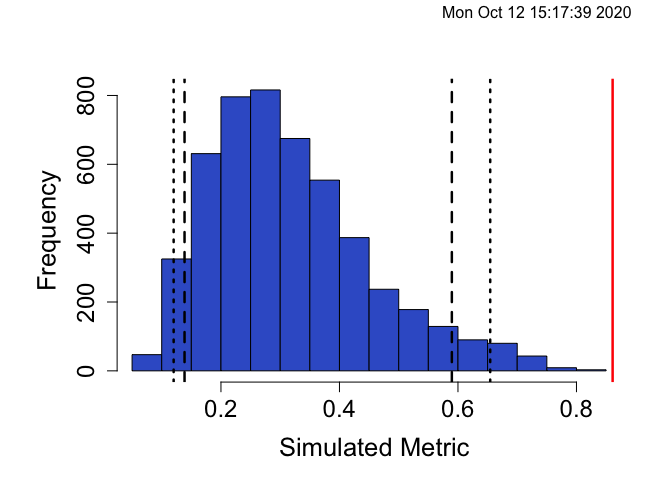
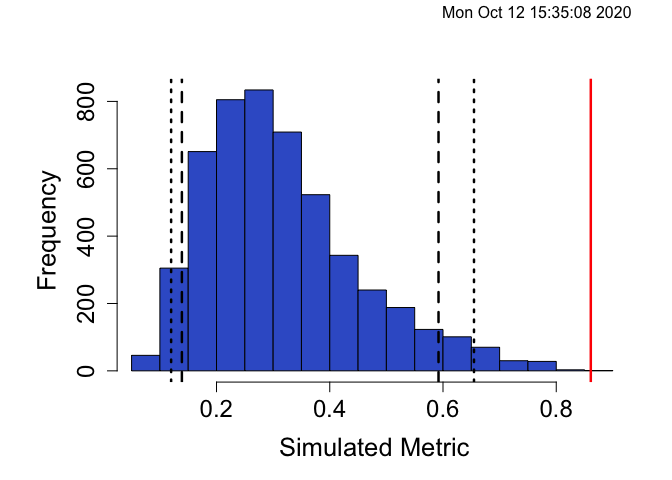
Fixed typos

diff --git a/Piankas_niche_overlap.md b/Piankas_niche_overlap.md
@@ -21,7 +21,9 @@ df <- read.csv("/Users/gemmaclucas/Dropbox/Diets_from_poop/2019_terns_puffins_fe
          Mummichog = Mummichig)
 ```
 
-### Create matrix to calculate niche overlap for COTEs
+## Niche overlap between Common Tern adults and chicks
+
+### Create matrix
 
 The function needs species (or in this case age groups) as rows and the
 prey items in columns. It will determine the proportion for each prey
@@ -77,25 +79,25 @@ COTE_pianka <- COTE %>% niche_null_model(nReps=5000, algo = "ra3", metric = "pia
 summary(COTE_pianka)
 ```
 
-    ## Time Stamp:  Mon Oct 12 15:17:39 2020 
+    ## Time Stamp:  Mon Oct 12 15:35:08 2020 
     ## Reproducible:  FALSE 
     ## Number of Replications:  5000 
-    ## Elapsed Time:  0.88 secs 
+    ## Elapsed Time:  0.82 secs 
     ## Metric:  pianka 
     ## Algorithm:  ra3 
     ## Observed Index:  0.86102 
-    ## Mean Of Simulated Index:  0.31603 
-    ## Variance Of Simulated Index:  0.018255 
-    ## Lower 95% (1-tail):  0.13853 
-    ## Upper 95% (1-tail):  0.58967 
-    ## Lower 95% (2-tail):  0.12016 
-    ## Upper 95% (2-tail):  0.65443 
-    ## Lower-tail P >  0.9998 
-    ## Upper-tail P <  2e-04 
-    ## Observed metric > 5000 simulated metrics 
-    ## Observed metric < 0 simulated metrics 
+    ## Mean Of Simulated Index:  0.31594 
+    ## Variance Of Simulated Index:  0.018551 
+    ## Lower 95% (1-tail):  0.13884 
+    ## Upper 95% (1-tail):  0.59208 
+    ## Lower 95% (2-tail):  0.11985 
+    ## Upper 95% (2-tail):  0.65474 
+    ## Lower-tail P =  0.9998 
+    ## Upper-tail P =  2e-04 
+    ## Observed metric > 4999 simulated metrics 
+    ## Observed metric < 1 simulated metrics 
     ## Observed metric = 0 simulated metrics 
-    ## Standardized Effect Size (SES):  4.0337
+    ## Standardized Effect Size (SES):  4.002
 
 Plot a histogram to see where the observed metric falls against the
 simulated
@@ -111,7 +113,7 @@ This shows that there is much higher overlap than expected by chance.
 The observed overlap of 0.8610201 is well outside of the 95% confidence
 interval, which is denoted by the short dashed lines.
 
-### Overlap between COTE and ROST chick diets.
+## Niche overlap between Common and Roseate tern chicks
 
 Create a table with the FOO for COTE and ROST chicks (years are
 grouped).
@@ -149,25 +151,25 @@ COTE_ROST_pianka <- COTE_ROST %>% niche_null_model(nReps=5000, algo = "ra3", met
 summary(COTE_ROST_pianka)
 ```
 
-    ## Time Stamp:  Mon Oct 12 15:17:40 2020 
+    ## Time Stamp:  Mon Oct 12 15:35:09 2020 
     ## Reproducible:  FALSE 
     ## Number of Replications:  5000 
-    ## Elapsed Time:  0.86 secs 
+    ## Elapsed Time:  0.82 secs 
     ## Metric:  pianka 
     ## Algorithm:  ra3 
     ## Observed Index:  0.6847 
-    ## Mean Of Simulated Index:  0.23042 
-    ## Variance Of Simulated Index:  0.022814 
-    ## Lower 95% (1-tail):  0.060835 
-    ## Upper 95% (1-tail):  0.55733 
-    ## Lower 95% (2-tail):  0.049446 
-    ## Upper 95% (2-tail):  0.61667 
-    ## Lower-tail P =  0.9904 
-    ## Upper-tail P =  0.0096 
-    ## Observed metric > 4952 simulated metrics 
-    ## Observed metric < 48 simulated metrics 
+    ## Mean Of Simulated Index:  0.22944 
+    ## Variance Of Simulated Index:  0.022409 
+    ## Lower 95% (1-tail):  0.058832 
+    ## Upper 95% (1-tail):  0.55535 
+    ## Lower 95% (2-tail):  0.047095 
+    ## Upper 95% (2-tail):  0.62067 
+    ## Lower-tail P =  0.991 
+    ## Upper-tail P =  0.009 
+    ## Observed metric > 4955 simulated metrics 
+    ## Observed metric < 45 simulated metrics 
     ## Observed metric = 0 simulated metrics 
-    ## Standardized Effect Size (SES):  3.0076
+    ## Standardized Effect Size (SES):  3.0411
 
 ``` r
 plot(COTE_ROST_pianka, type = "hist")
@@ -186,7 +188,7 @@ to Pianka’s Niche Overlap.
 #create a random data set with uniform (0,1) values
 myRandomData <- matrix(runif(300), nrow=30)
 
-# run null model with czekanowski index and ra1, 5000 replications
+# run null model with pianka index and ra3, 5000 replications
 myRandomModel <- niche_null_model(speciesData=myRandomData, 
                             algo="ra3", metric="pianka", 
                             suppressProg=TRUE,nReps=5000)
@@ -195,25 +197,25 @@ myRandomModel <- niche_null_model(speciesData=myRandomData,
 summary(myRandomModel)
 ```
 
-    ## Time Stamp:  Mon Oct 12 15:17:52 2020 
+    ## Time Stamp:  Mon Oct 12 15:35:23 2020 
     ## Reproducible:  FALSE 
     ## Number of Replications:  5000 
-    ## Elapsed Time:  12 secs 
+    ## Elapsed Time:  14 secs 
     ## Metric:  pianka 
     ## Algorithm:  ra3 
-    ## Observed Index:  0.73529 
-    ## Mean Of Simulated Index:  0.73825 
-    ## Variance Of Simulated Index:  1.6538e-05 
-    ## Lower 95% (1-tail):  0.73269 
-    ## Upper 95% (1-tail):  0.74576 
-    ## Lower 95% (2-tail):  0.73204 
-    ## Upper 95% (2-tail):  0.74787 
-    ## Lower-tail P =  0.2514 
-    ## Upper-tail P =  0.7486 
-    ## Observed metric > 1257 simulated metrics 
-    ## Observed metric < 3743 simulated metrics 
+    ## Observed Index:  0.74138 
+    ## Mean Of Simulated Index:  0.74381 
+    ## Variance Of Simulated Index:  1.6582e-05 
+    ## Lower 95% (1-tail):  0.7383 
+    ## Upper 95% (1-tail):  0.75132 
+    ## Lower 95% (2-tail):  0.73761 
+    ## Upper 95% (2-tail):  0.75333 
+    ## Lower-tail P =  0.306 
+    ## Upper-tail P =  0.694 
+    ## Observed metric > 1530 simulated metrics 
+    ## Observed metric < 3470 simulated metrics 
     ## Observed metric = 0 simulated metrics 
-    ## Standardized Effect Size (SES):  -0.72638
+    ## Standardized Effect Size (SES):  -0.59585
 
 ``` r
 plot(myRandomModel,type="hist")
